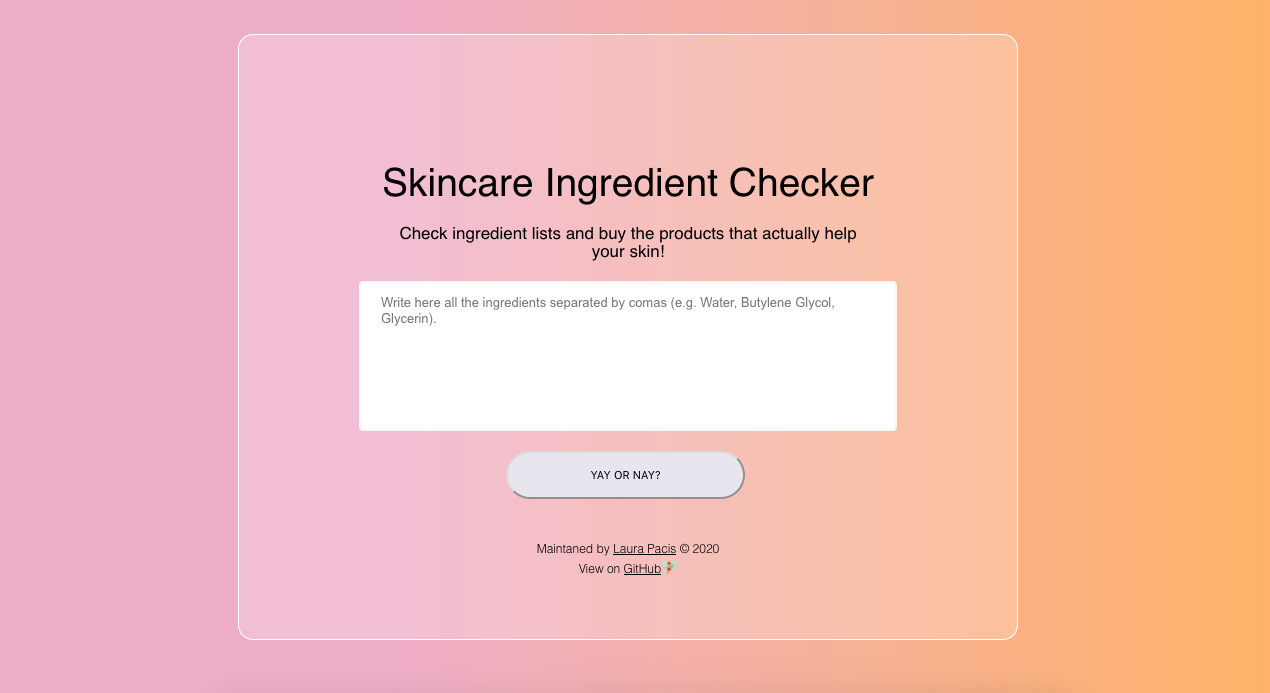
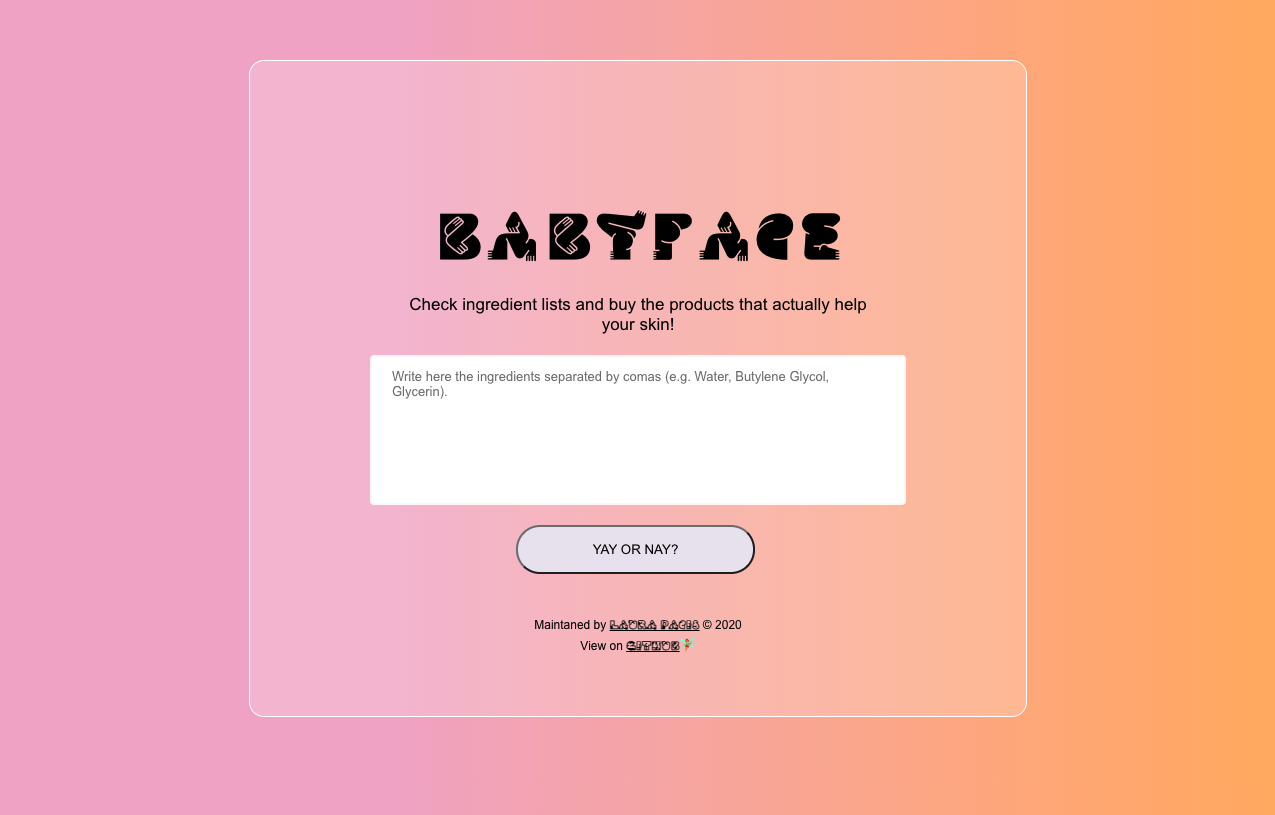
change title and font

diff --git a/index.html b/index.html
@@ -3,24 +3,24 @@
 <head>
     <meta charset="UTF-8">
     <meta name="viewport" content="width=device-width, initial-scale=1.0">
-    <meta name="description" content="Find out if your skincare products contain high quality ingredients and make your skin glow&#128150;" />
-    <title>&#10024;Skincare Ingredient Checker&#10024;</title>
+    <meta name="description" content="Find out if your skincare products contain high quality ingredients and make your skin glow with babyface" />
+    <title>babyface - Your Skincare Ingredient Checker</title>
     <link rel="stylesheet" href="style.css">
 </head>
 <body>
     <main class="container">
-        <h1>Skincare Ingredient Checker</h1>
+        <h1>babyface</h1>
 
         <h3>Check ingredient lists and buy the products that actually help your skin!</h3>
 
-        <textarea id="input" name="input" placeholder="Write here all the ingredients separated by comas (e.g. Water, Butylene Glycol, Glycerin)."></textarea>
+        <textarea id="input" name="input" placeholder="Write here the ingredients separated by comas (e.g. Water, Butylene Glycol, Glycerin)."></textarea>
 
         <button id="button">Yay or nay?</button>
 
         <h3 id="answer"></h3>
 
         <p>Maintaned by <a href="https://github.com/laurapacis" target="_blank">Laura Pacis</a> © 2020<br>
-        View on <a href="https://github.com/laurapacis/skincare-ingredient-checker" target="_blank">GitHub</a>&#129498</p>
+        View on <a href="https://github.com/laurapacis/babyface" target="_blank">GitHub</a>&#129498</p>
     </main>
     <script src="js/script.js" type="text/javascript"></script>
 </body>

diff --git a/style.css b/style.css
@@ -1,10 +1,18 @@
+@font-face {
+  font-family: "Typefesse-dark";
+  src: url("/font/Typefesse_Pleine.woff") format("woff");
+}
+
+@font-face {
+  font-family: "Typefesse-light";
+  src: url("/font/Typefesse_Claire-Obscure.woff") format("woff");
+}
+
 :root {
   font-size: 62.5%;
 }
 
 * {
-  cursor: url("https://freight.cargo.site/t/original/i/929c0a9f4cbb8c5fcb9b6f600cc46b238721c2f5fd7954ecfc74227dbda5884a/cursornegro.png"),
-    auto !important;
   margin: 0;
   padding: 0;
   box-sizing: border-box;
@@ -12,7 +20,8 @@
 
 body {
   font-size: 1.6rem;
-  font-family: Open Sans, sans-serif;
+  font-family: Arial, Helvetica, sans-serif;
+
   background: rgb(238, 174, 202);
   background: linear-gradient(
     90deg,
@@ -36,8 +45,9 @@ body {
 }
 
 .container h1 {
-  font-size: 2.8rem;
-  font-weight: 500;
+  font-size: 5.3rem;
+  font-weight: 100;
+  font-family: Typefesse-dark;
   text-align: center;
   width: 100%;
 }
@@ -58,6 +68,8 @@ body {
 }
 
 a {
+  font-family: Typefesse-light;
+  font-weight: 600;
   color: #000000;
 }
 
@@ -98,7 +110,7 @@ button:hover {
   }
 
   .container h1 {
-    font-size: 3.9rem;
+    font-size: 7rem;
   }
 
   .container h3 {

diff --git a/js/script.js b/js/script.js
@@ -1,4 +1,4 @@
-window.alert("The following site is for educational purposes only! In case you want to start using a new skincare product please talk to your dematologist first.");
+// window.alert("The following site is for educational purposes only! In case you want to start using a new skincare product please talk to your dematologist first.");
 
 const userInput = document.getElementById('input')
 
@@ -41,7 +41,7 @@ const outputForUser = (result) => {
     if (result != 0) {
         answer.innerText = (`Unfortunately it contains: ${result}. These ingredients may irritate your skin.`);
     } else {
-        answer.innerText = (`Nice! It seems like all these ingredients are safe even for sensitive skin!`);
+        answer.innerText = (`Cool beans! It seems like all these ingredients are safe even for sensitive skin!`);
     }
 }
 

diff --git a/README.md b/README.md
@@ -1,9 +1,10 @@
-### Skincare Ingredient Checker
+### babyface - Your Skincare Ingredient Checker
 
-[https://laurapacis.github.io/skincare-ingredient-checker/](https://laurapacis.github.io/skincare-ingredient-checker/)
+Users can visit [babyface](https://laurapacis.github.io/babyface/) to quickly search for sensitizers and allergens in an ingredient list of skincare products :sparkles:
 
-Users can visit the [Skincare Ingredient Checker](https://laurapacis.github.io/skincare-ingredient-checker/) to quickly search for sensitizers and allergens in an ingredient list of skincare products :sparkles:
+This project is built with Vanilla JavaScript and styled with plain CSS. Still in progress.
 
-This project is still in progress.
+![Typefesse](https://velvetyne.fr/fonts/typefesse/) font is courtesy of ![Ocèane Juvin](http://oceanejuvin.fr/)
 
+![mobile-view](img/mobile-view.png)
 ![desktop-view](img/desktop-view.png)
